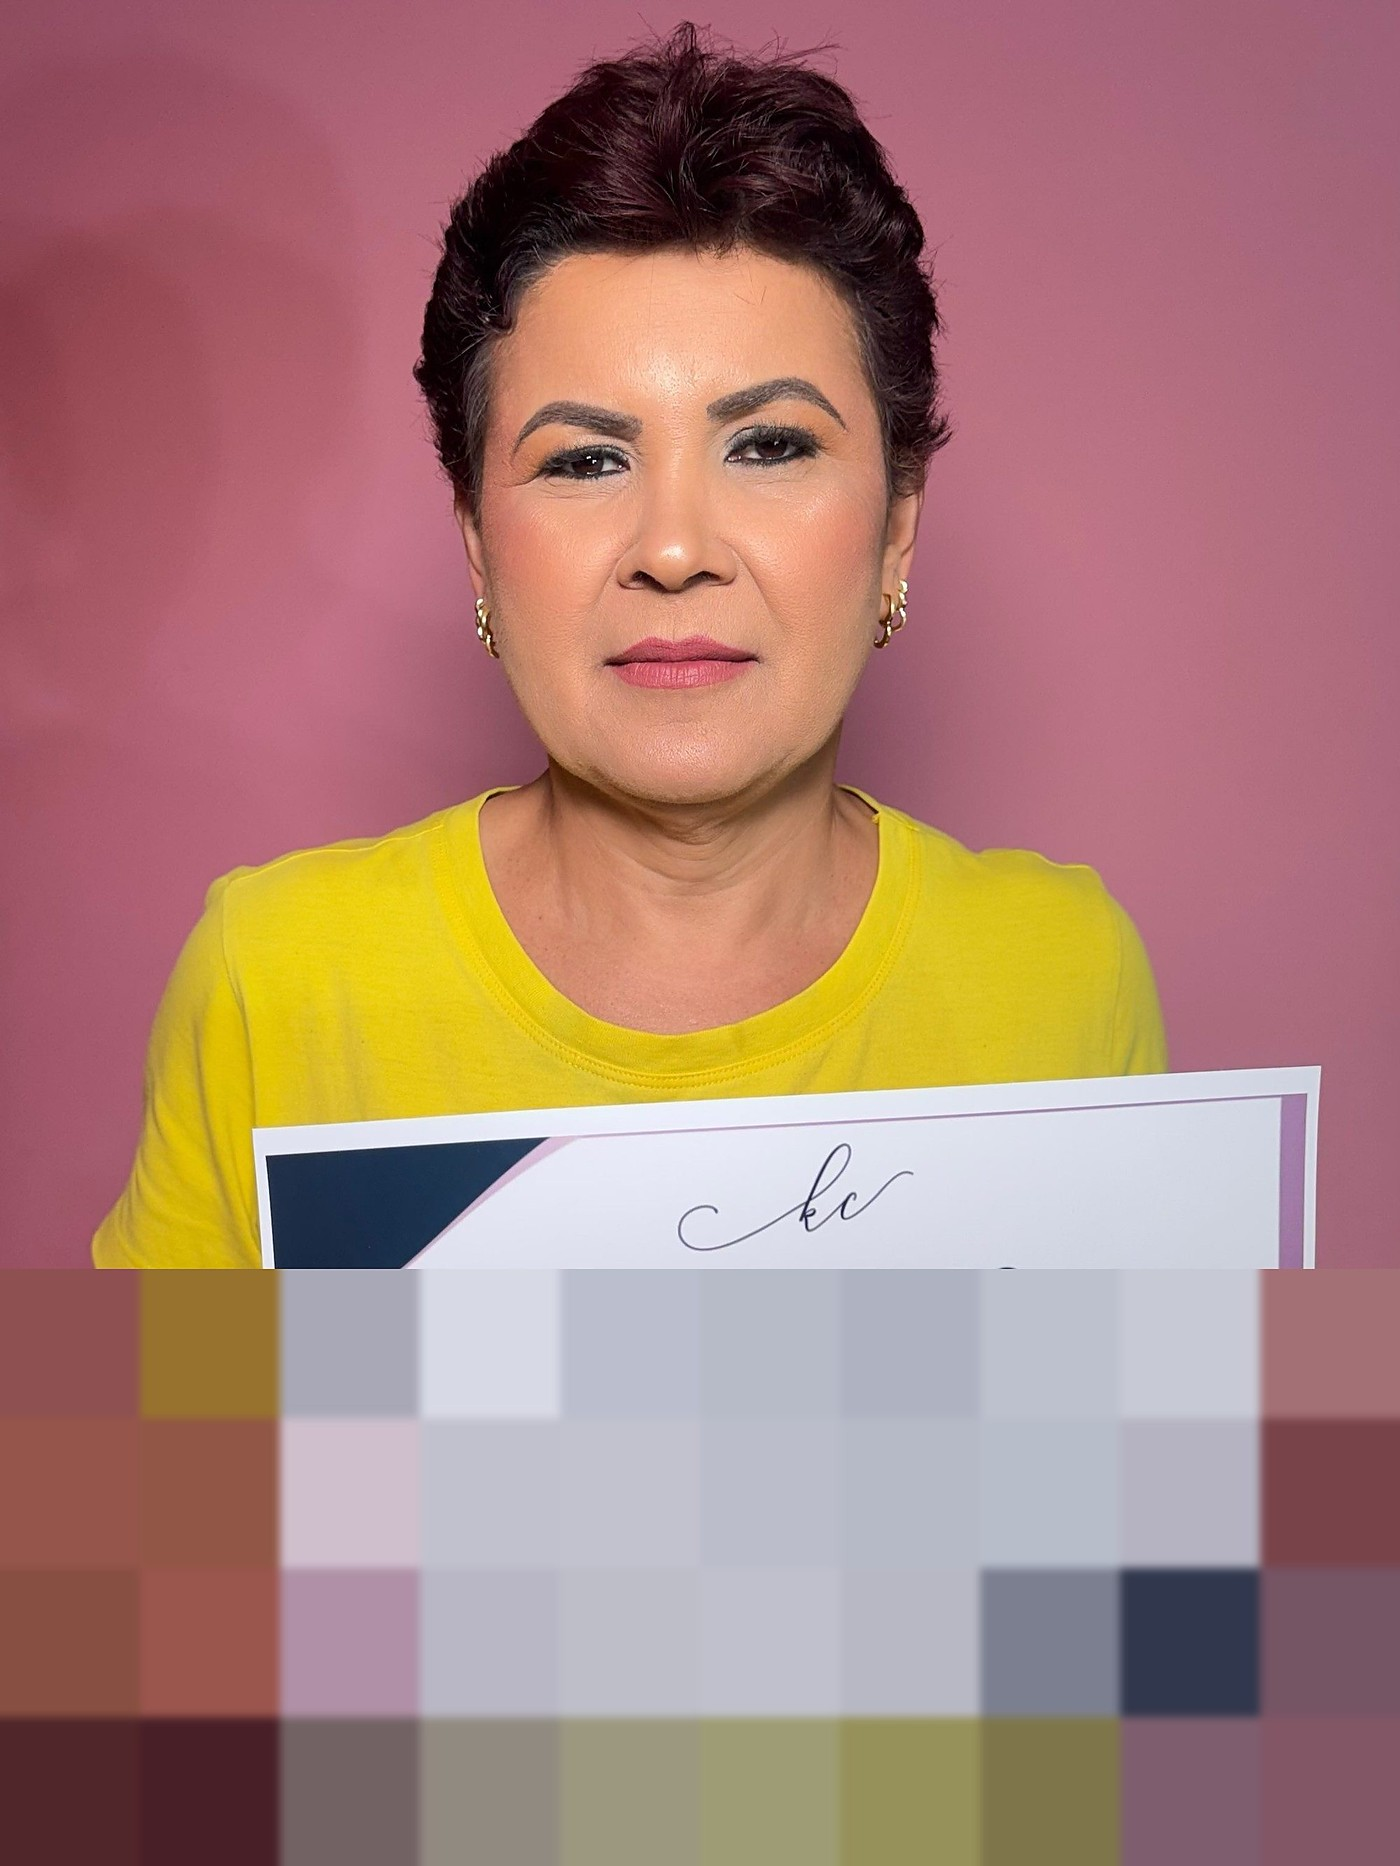
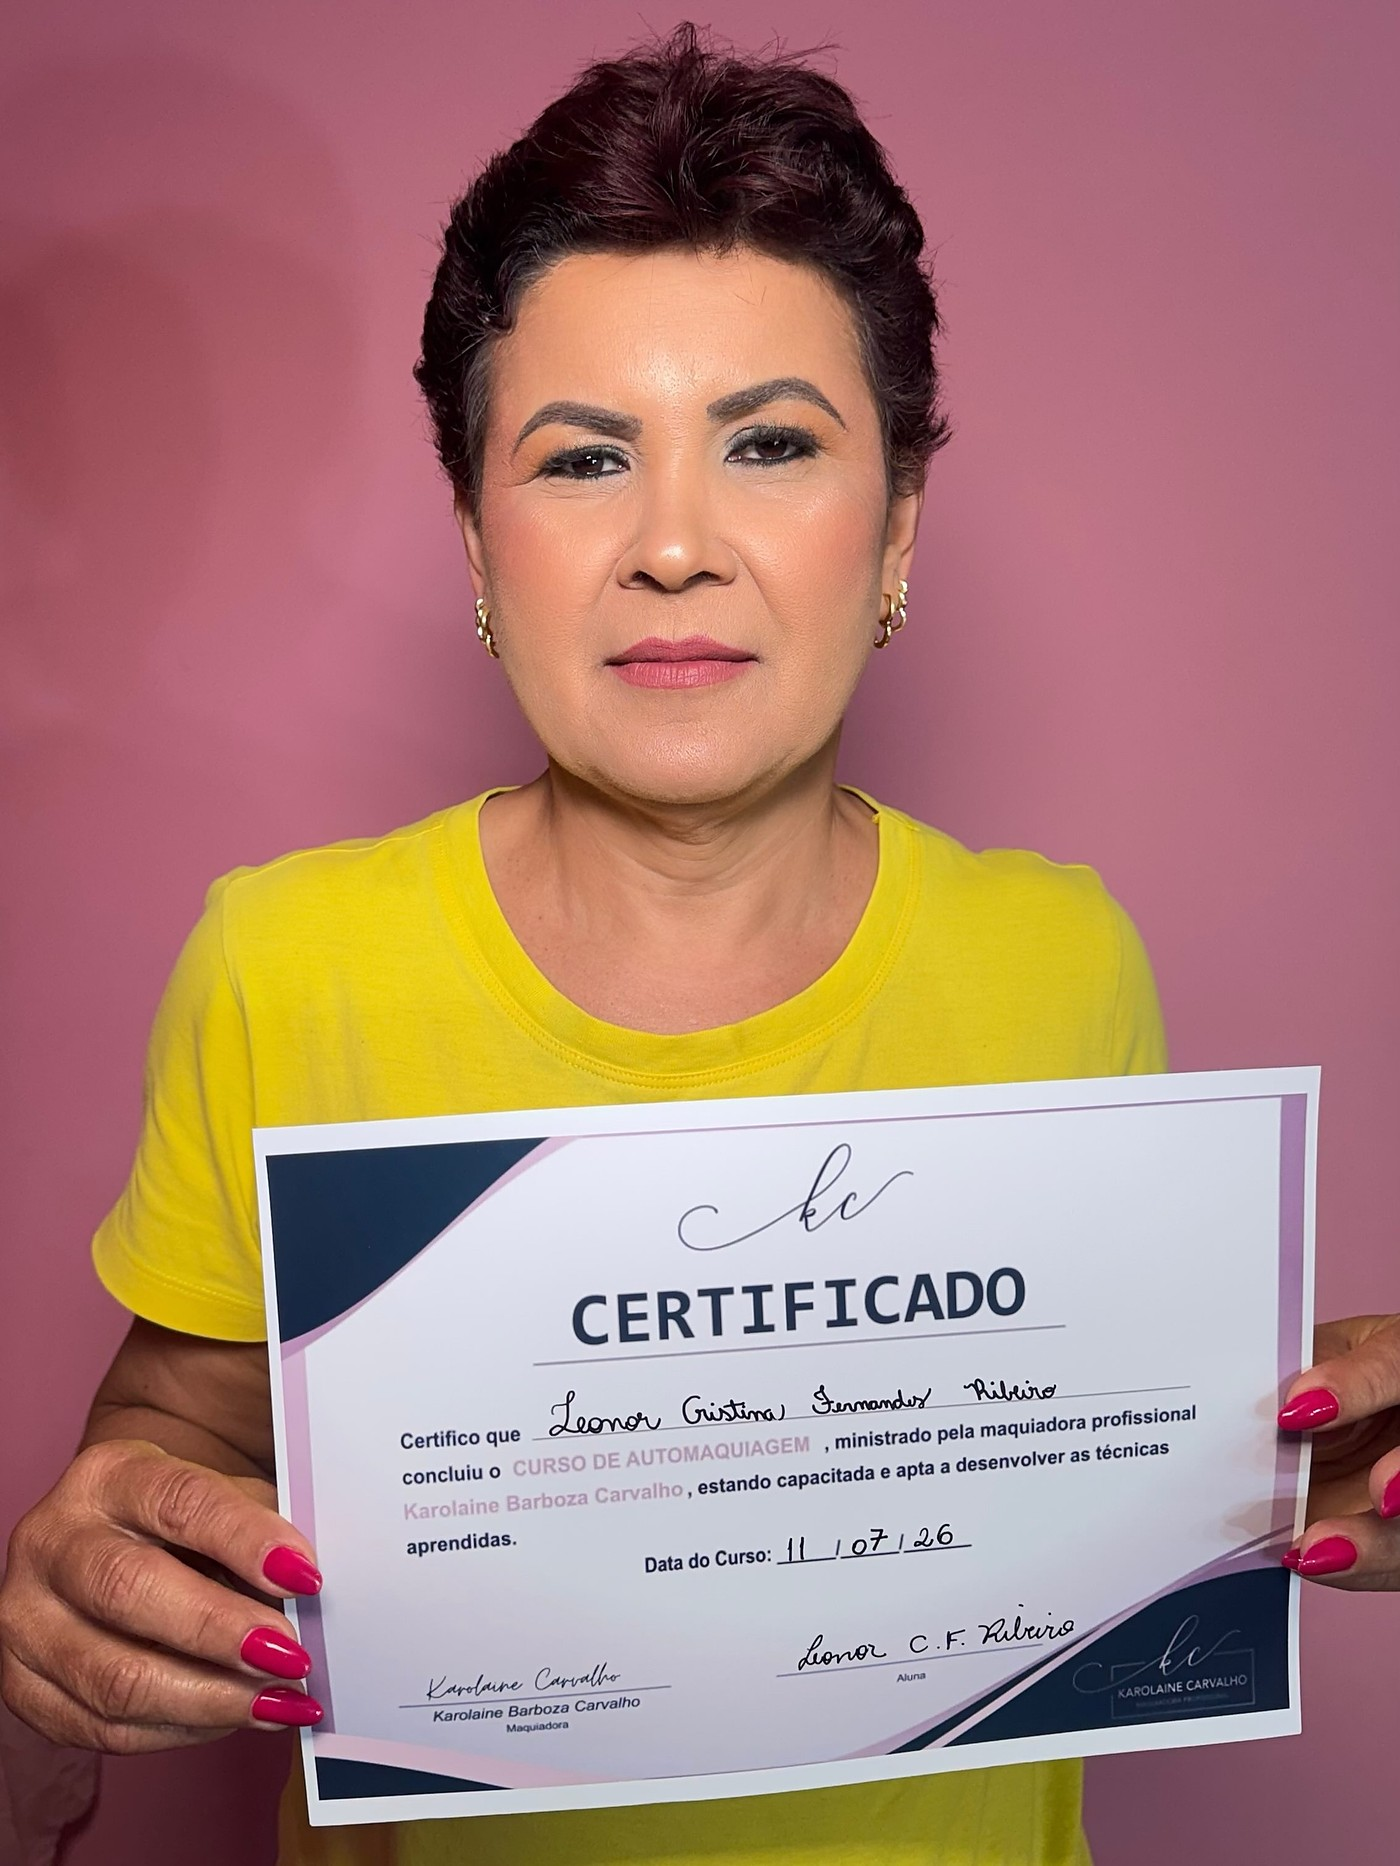
Os certificados voltam a aparecer, e um deles estava espelhado
Autorizado por voce. E o mosaico era estrago meu: quando regerei o acervo
inteiro puxando de ferramentas/originais/, nao percebi que aqueles
arquivos guardam a versao ANONIMIZADA de proposito -- sao arquivo morto.
As alunas voltaram pro site com uma tarja cinza cobrindo um terco da foto.

Recuperei os originais limpos do commit fa55dfa, anterior a anonimizacao,
e regerei as seis em 1400px com qualidade 90. Certificado inteiro, sem
mosaico.

E achei outra coisa no caminho: a aluna-01 estava ESPELHADA. Foi tirada
com camera frontal, que inverte, e o certificado lia de tras pra frente --
"ODACIFITREC". Ninguem nota num rosto, mas texto invertido no meio da
foto e o tipo de coisa que faz o site parecer amador sem a pessoa saber
explicar por que. Desespelhada.

Conferi as seis uma a uma: as outras cinco estao na orientacao certa, e
sao seis pessoas diferentes, sem repeticao.

A ferramenta ganhou uma lista NAO_MEXER com as seis e o motivo escrito.
Rodar requalificar.py de novo agora as pula -- o mosaico nao volta por
acidente uma segunda vez.

Changed region(s): [[0.0, 0.6527, 1.0, 1.0], [0.0307, 0.9636, 0.0614, 1.0]]

diff --git a/ferramentas/requalificar.py b/ferramentas/requalificar.py
@@ -93,6 +93,22 @@ LARGURA_CAPA = 1700
 # original. Esta lista devolve esse comportamento.
 SEM_RECORTE = ("karol-capa",)
 
+# Fotos que este script NAO PODE TOCAR.
+#
+# ⚠ As seis fotos de aluna vem de originais que estao ANONIMIZADOS em
+# `ferramentas/originais/` — o mosaico sobre o certificado esta gravado no
+# arquivo de arquivo morto, de proposito.
+#
+# Rodar este script sobre elas puxa o mosaico de volta pra dentro do site,
+# e foi exatamente isso que aconteceu em 07/09/2026: o acervo inteiro foi
+# regerado e as alunas voltaram com uma tarja cinza cobrindo um terco da
+# foto. O Kaina viu no site e reclamou.
+#
+# As versoes publicadas hoje vieram dos originais LIMPOS, recuperados do
+# commit `fa55dfa` (anterior a anonimizacao), com autorizacao dele em
+# 07/09/2026. Elas ja estao em 1400 px e nao precisam deste script.
+NAO_MEXER = tuple(f"aluna-{i:02d}" for i in range(1, 7))
+
 # Focos que o `fotos2.py` usou. O recorte é procurado entre eles.
 FOCOS = [round(0.14 + i * 0.02, 2) for i in range(20)]  # 0.14 .. 0.52
 
@@ -198,6 +214,10 @@ def main():
         with Image.open(caminho) as im:
             pub = im.convert("RGB").copy()
         antes_kb = os.path.getsize(caminho) / 1024
+
+        if nome.rsplit(".", 1)[0] in NAO_MEXER:
+            print(f"  {nome:<24} PULADO de proposito (ver NAO_MEXER)")
+            continue
 
         d, fonte, prop, foco = achar_fonte(pub, originais)
 
